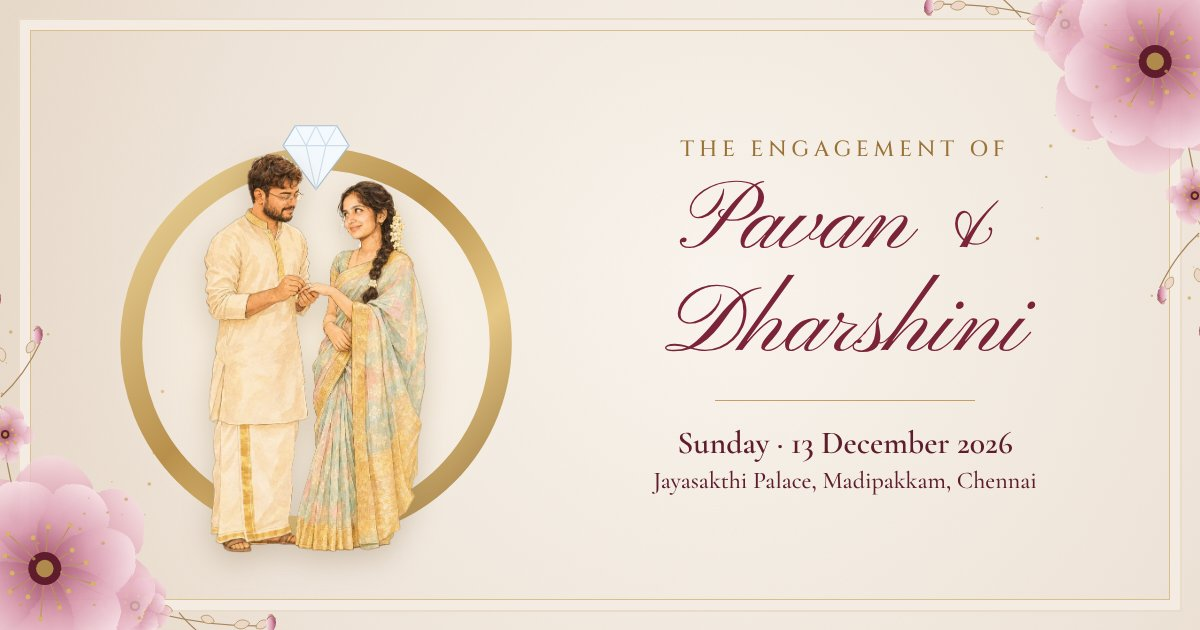
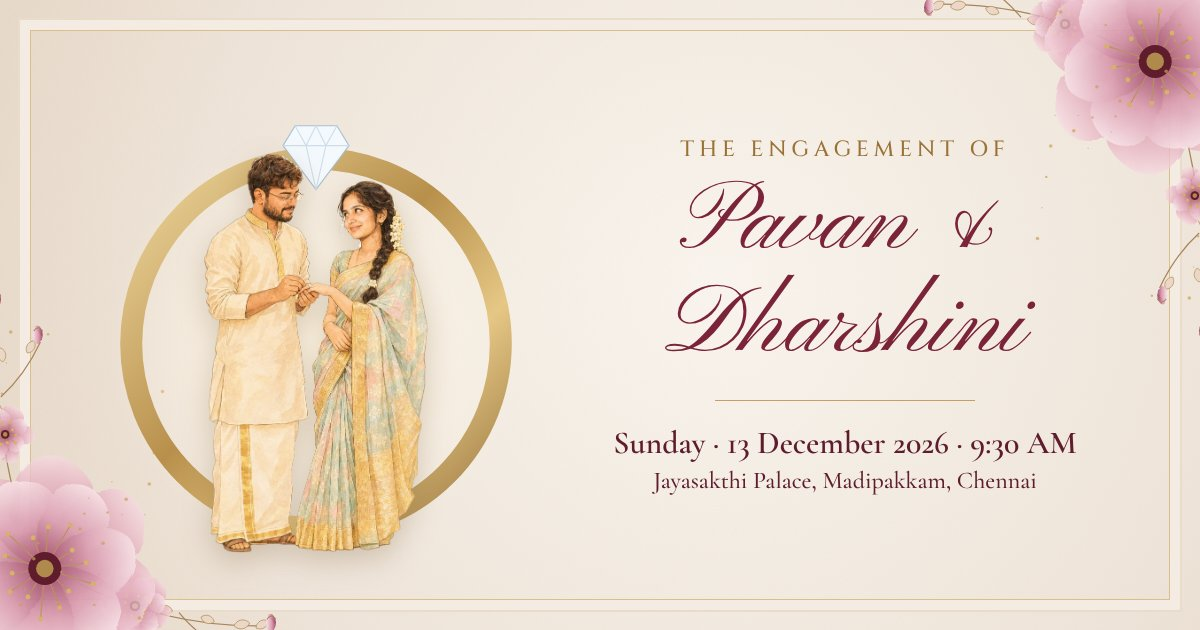
Add 9:30 AM onwards timing everywhere
Claude-Session: https://claude.ai/code/session_0146cDdkA7jvTS9hrz4wQrtk

Changed region(s): [[0.4933, 0.6635, 0.8942, 0.7238]]

diff --git a/index.html b/index.html
@@ -7,11 +7,11 @@
 <meta name="supported-color-schemes" content="light">
 <meta name="theme-color" content="#efe5da">
 <meta name="darkreader-lock">
-<meta name="description" content="Join us for the engagement of Pavan & Dharshini · Sunday, 13 December 2026 · Jayasakthi Palace, Madipakkam, Chennai">
+<meta name="description" content="Join us for the engagement of Pavan & Dharshini · Sunday, 13 December 2026 · 9:30 AM onwards · Jayasakthi Palace, Madipakkam, Chennai">
 <meta property="og:type" content="website">
 <meta property="og:url" content="https://pavan-dharshini-invite.vercel.app/">
 <meta property="og:title" content="Pavan & Dharshini · Engagement Invitation">
-<meta property="og:description" content="Sunday, 13 December 2026 · Jayasakthi Palace, Madipakkam, Chennai">
+<meta property="og:description" content="Sunday, 13 December 2026 · 9:30 AM onwards · Jayasakthi Palace, Madipakkam, Chennai">
 <meta property="og:image" content="https://pavan-dharshini-invite.vercel.app/og.jpg">
 <meta property="og:image:secure_url" content="https://pavan-dharshini-invite.vercel.app/og.jpg">
 <meta property="og:image:type" content="image/jpeg">
@@ -178,6 +178,7 @@ a{color:inherit}
 .amp span{font:50px/1 "Pinyon Script",cursive;color:#b08a4c;background:linear-gradient(180deg,#d9b56b,#9a7136);-webkit-background-clip:text;background-clip:text;-webkit-text-fill-color:transparent;padding:0 4px}
 .dt{font:600 clamp(16px,4.6vw,24px) "Cormorant Garamond",serif;color:#5e1c2c;margin:4px 0 0;display:flex;justify-content:center;align-items:center;gap:10px;white-space:nowrap}
 .dt i{width:1.5px;height:20px;background:#7b2439}
+.tm{font:600 clamp(16px,4.4vw,20px) Cinzel,serif;letter-spacing:.08em;color:#7b2439;margin:6px 0 0}
 .ven{font:500 15.5px/1.45 "Cormorant Garamond",serif;color:#5e1c2c;margin:0 0 16px;text-wrap:balance}
 .ven b{display:block;font-weight:600}
 .qr{display:block;width:128px;margin:0 auto;padding:10px;background:#fbf7f2;border:1.5px solid #c4a063;border-radius:8px;box-shadow:0 0 0 4px #fbf7f2,0 0 0 5px #d9bf8c}
@@ -272,7 +273,7 @@ footer p{max-width:420px;margin:0 auto}
   <svg class="bb bl" id="bbBL" viewBox="0 0 240 240" aria-hidden="true"></svg>
   <p class="gk">You are invited</p>
   <div class="gf">
-    <div class="inner"><svg viewBox="0 0 200 310" preserveAspectRatio="none" aria-hidden="true"><path d="M100 2C110 12 122 20 136 20C150 20 152 32 160 38C168 44 184 42 188 54V256C184 268 168 266 160 272C152 278 150 290 136 290C122 290 110 298 100 308C90 298 78 290 64 290C50 290 48 278 40 272C32 266 16 268 12 256V54C16 42 32 44 40 38C48 32 50 20 64 20C78 20 90 12 100 2Z" fill="#fbf7f1" stroke="#d9bf8c"/><path d="M100 2C110 12 122 20 136 20C150 20 152 32 160 38C168 44 184 42 188 54V256C184 268 168 266 160 272C152 278 150 290 136 290C122 290 110 298 100 308C90 298 78 290 64 290C50 290 48 278 40 272C32 266 16 268 12 256V54C16 42 32 44 40 38C48 32 50 20 64 20C78 20 90 12 100 2Z" fill="none" stroke="#c4a063" stroke-width=".7" transform="translate(100 155) scale(.92) translate(-100 -155)"/></svg><p class="a">The engagement of</p><p class="b">Pavan &amp; Dharshini</p><p class="c">13 · 12 · 2026</p></div>
+    <div class="inner"><svg viewBox="0 0 200 310" preserveAspectRatio="none" aria-hidden="true"><path d="M100 2C110 12 122 20 136 20C150 20 152 32 160 38C168 44 184 42 188 54V256C184 268 168 266 160 272C152 278 150 290 136 290C122 290 110 298 100 308C90 298 78 290 64 290C50 290 48 278 40 272C32 266 16 268 12 256V54C16 42 32 44 40 38C48 32 50 20 64 20C78 20 90 12 100 2Z" fill="#fbf7f1" stroke="#d9bf8c"/><path d="M100 2C110 12 122 20 136 20C150 20 152 32 160 38C168 44 184 42 188 54V256C184 268 168 266 160 272C152 278 150 290 136 290C122 290 110 298 100 308C90 298 78 290 64 290C50 290 48 278 40 272C32 266 16 268 12 256V54C16 42 32 44 40 38C48 32 50 20 64 20C78 20 90 12 100 2Z" fill="none" stroke="#c4a063" stroke-width=".7" transform="translate(100 155) scale(.92) translate(-100 -155)"/></svg><p class="a">The engagement of</p><p class="b">Pavan &amp; Dharshini</p><p class="c">13 · 12 · 2026 · 9:30 AM</p></div>
     <svg class="fl l" viewBox="0 0 200 310" aria-hidden="true">
       <defs><clipPath id="cl"><path d="M100 2C78 46 78 92 100 136C122 180 122 226 100 266C92 282 94 296 100 308 L-10 310 L-10 -2Z"/></clipPath>
       <linearGradient id="pgl" x1="0" x2="1" y1="0" y2="1"><stop offset="0" stop-color="#fffaf3"/><stop offset=".7" stop-color="#f6ede0"/><stop offset="1" stop-color="#efe3d1"/></linearGradient></defs>
@@ -329,6 +330,7 @@ footer p{max-width:420px;margin:0 auto}
   <p class="ck">The engagement of</p>
   <h2 class="script">Pavan &amp; Dharshini</h2>
   <p class="sub">With this ring, a forever begins</p>
+  <p class="ck" style="margin-top:6px">Sunday · 13 Dec 2026 · 9:30 AM</p>
   <div class="ringwrap">
     <svg viewBox="0 0 400 472" aria-hidden="true">
       <defs><linearGradient id="gold" x1="0" y1="0" x2="1" y2="1"><stop offset="0" stop-color="#f0d9a0"/><stop offset=".45" stop-color="#b8904c"/><stop offset=".7" stop-color="#e6c785"/><stop offset="1" stop-color="#94703a"/></linearGradient>
@@ -367,6 +369,7 @@ footer p{max-width:420px;margin:0 auto}
     <p class="par">Muralidharan</p>
     <svg class="dv" viewBox="0 0 220 12" aria-hidden="true"><path d="M0 6H96M124 6H220" stroke="#c4a063" stroke-width=".8"/><path d="M110 0L116 6L110 12L104 6Z" fill="none" stroke="#b08a4c"/></svg>
     <p class="dt">Sunday <i></i> 13th December, 2026</p>
+    <p class="tm">9:30 AM onwards</p>
     <svg class="dv sm" viewBox="0 0 80 10" aria-hidden="true"><path d="M0 5H32M48 5H80" stroke="#c4a063" stroke-width=".8"/><path d="M40 1L44 5L40 9L36 5Z" fill="#b08a4c"/></svg>
     <p class="ven"><b>Jayasakthi Palace AC Kalyana Mandapam</b>41, Madipakkam Main Rd,<br>near SAI School, Ram Nagar South,<br>Madipakkam, Chennai 600091</p>
     <p class="rsvp">RSVP : Pavan</p>
@@ -382,6 +385,7 @@ footer p{max-width:420px;margin:0 auto}
   <div class="sin">
   <p class="kick">Save the date</p>
   <h2 class="script">Counting the days</h2>
+  <p class="kick" style="margin:-6px 0 16px;color:#7b2439">Sunday, 13 December · 9:30 AM onwards</p>
   <div class="cal" aria-label="December 2026 calendar, 13th marked">
     <div class="calh"><span>December</span><span>2026</span></div>
     <div class="calg" id="calg"></div>
@@ -543,14 +547,14 @@ footer p{max-width:420px;margin:0 auto}
   gate.addEventListener('keydown',e=>{if(e.key==='Enter'||e.key===' '){e.preventDefault();open()}});
 
   // countdown
-  const target=new Date('2026-12-13T00:00:00+05:30').getTime();
+  const target=new Date('2026-12-13T09:30:00+05:30').getTime();
   const el=id=>document.getElementById(id);
   const pad=n=>String(n).padStart(2,'0');
   const tick=()=>{let t=Math.max(0,target-Date.now())/1000;el('d').textContent=Math.floor(t/86400);el('h').textContent=pad(Math.floor(t%86400/3600));el('m').textContent=pad(Math.floor(t%3600/60));el('s').textContent=pad(Math.floor(t%60))};
   tick();setInterval(tick,1000);
 
   // calendar
-  el('cal').href='https://calendar.google.com/calendar/render?action=TEMPLATE&text='+encodeURIComponent('Pavan & Dharshini Engagement')+'&dates=20261213/20261214&location='+encodeURIComponent('Jayasakthi Palace Kalyana Mandapam, 41 Madipakkam Main Rd, Madipakkam, Chennai 600091');
+  el('cal').href='https://calendar.google.com/calendar/render?action=TEMPLATE&text='+encodeURIComponent('Pavan & Dharshini Engagement')+'&dates=20261213T040000Z/20261213T083000Z&location='+encodeURIComponent('Jayasakthi Palace Kalyana Mandapam, 41 Madipakkam Main Rd, Madipakkam, Chennai 600091');
 
 }
 </script>
